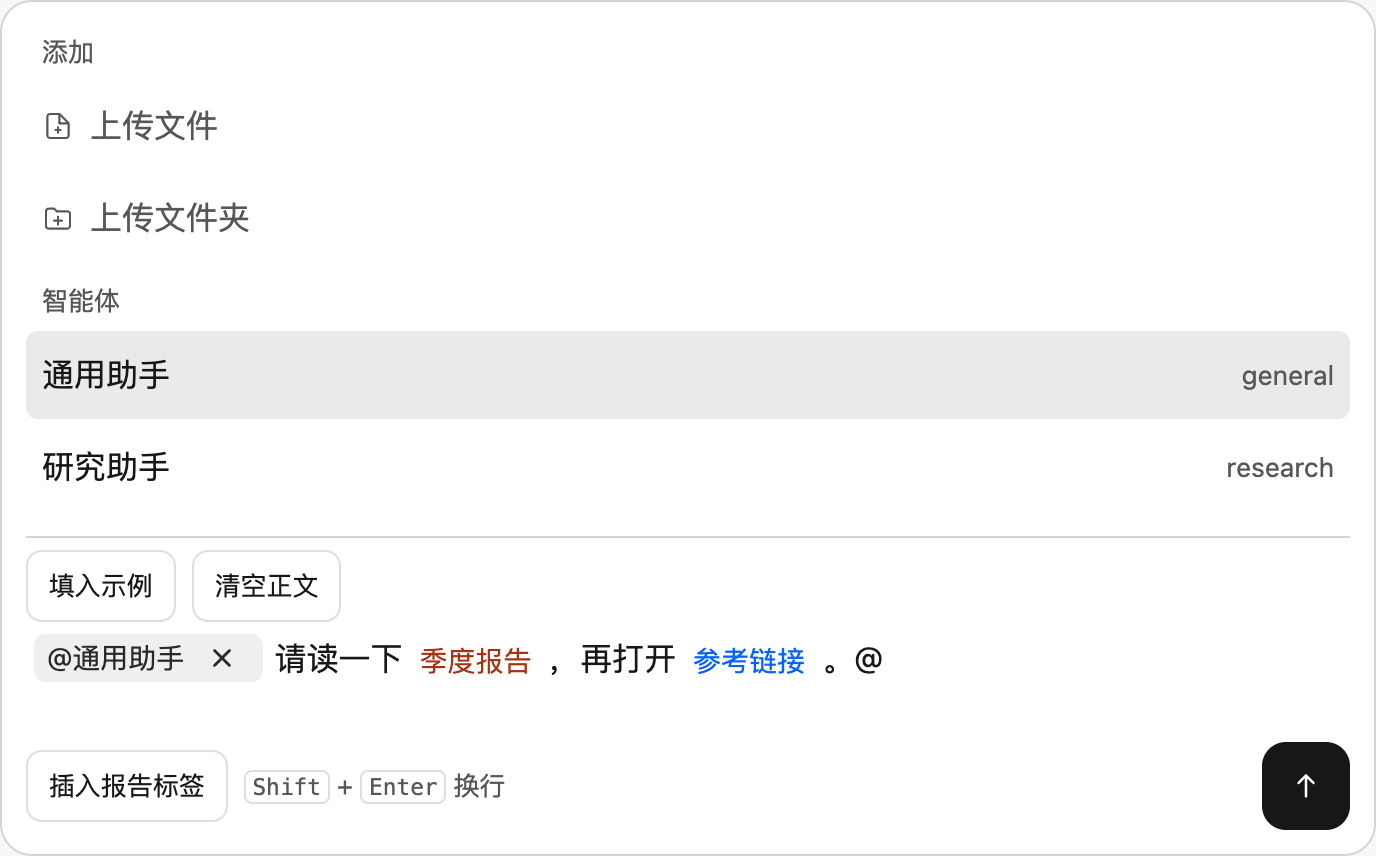
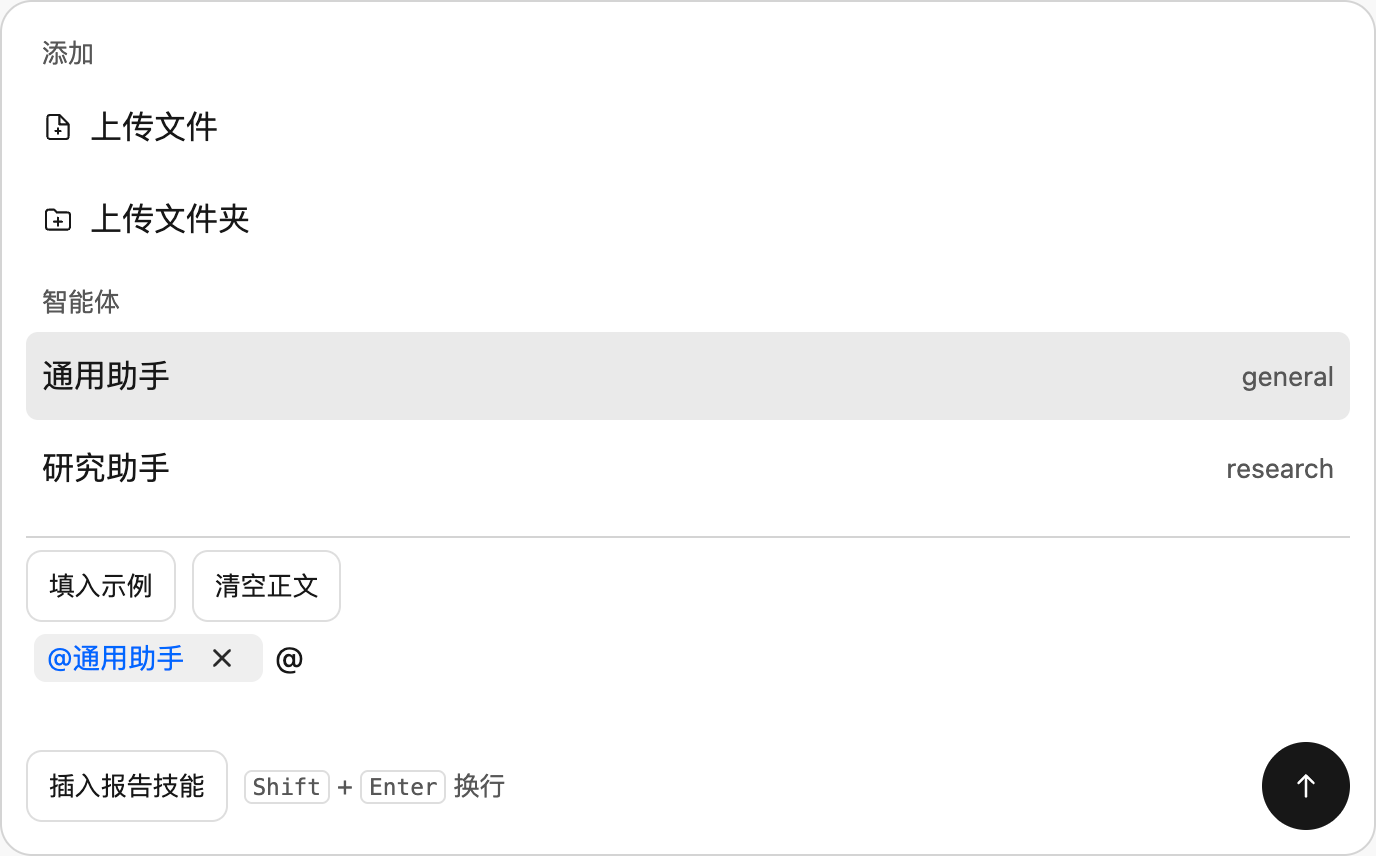
release 0.3.0

diff --git a/README.md b/README.md
@@ -1,16 +1,14 @@
 # Vue Agent Input
 
-面向智能体和聊天产品的 Vue 3 输入框。支持 `@` 智能体选择、`/` 正文标签、自定义候选面板，以及发送和停止事件。正文可以混排文本与可点击标签，使用 `v-model` 保存和回填草稿。
+面向智能体和聊天应用的 Vue 3 输入框。正文支持混排文本、固定标签、可编辑标签和下拉标签，并可通过 `v-model` 保存和回填。通过插槽自定义 `@` 和 `/` 候选，通过事件接入发送与停止操作。
 
-![demo](https://github.com/OriginRing/agent-input/blob/master/demo/assets/input.png)
+![Vue Agent Input 输入框演示](https://raw.githubusercontent.com/OriginRing/agent-input/master/demo/assets/input.png)
 
-![demo](https://github.com/OriginRing/agent-input/blob/master/demo/assets/input2.png)
+![Vue Agent Input 正文标签演示](https://raw.githubusercontent.com/OriginRing/agent-input/master/demo/assets/input2.png)
 
 ## 安装
 
-需要 Vue 3.5 或更新的 Vue 3 版本。包以 ESM 发布，附带 TypeScript 声明和编译好的 CSS。
-
-浏览器最低支持 Chrome 90。
+在 Vue 3.5 或更新版本的 Vue 3 项目中安装。包提供 ESM、TypeScript 声明和独立 CSS，Chrome 最低支持版本为 90。
 
 ```sh
 npm install vue-agent-input
@@ -40,7 +38,7 @@ function handleSend({ text }: AgentInputSendPayload) {
 </template>
 ```
 
-在正文中按 Enter 发送，按 Shift+Enter 换行。空草稿也会触发 `send`，此时 `text` 为 `''`，`content` 为 `[]`。草稿由调用方清空，智能体通过 `v-model:agent` 独立管理。
+在正文中按 Enter 发送，按 Shift+Enter 换行。空草稿也会触发 `send`，此时 `text` 为 `''`，`content` 为 `[]`。清空草稿后，通过 `v-model:agent` 绑定的智能体仍可继续使用。
 
 ## 自定义 `@` 和 `/` 候选
 
@@ -57,9 +55,21 @@ const draft = ref<AgentInputContent>([])
 const composer = ref<AgentInputExpose | null>(null)
 const agent = ref<AgentInputItem | null>(null)
 const agents: AgentInputItem[] = [{ label: '研究助手', value: 'research' }]
-const tags: AgentInputTag[] = [{ label: '季度报告', value: 'report.pdf' }]
+const tags: AgentInputTag[] = [
+  { type: 'tag', label: '季度报告', value: 'report.pdf' },
+  { type: 'input', label: '输出语言', value: '中文' },
+  {
+    type: 'select',
+    label: '文章主题',
+    value: 'campus',
+    options: [
+      { label: 'Campus', value: 'campus' },
+      { label: 'Travel', value: 'travel' },
+    ],
+  },
+]
 
-function filterCandidates(items: AgentInputItem[], query: string) {
+function filterCandidates<T extends AgentInputItem>(items: T[], query: string) {
   const keyword = query.toLowerCase()
   return items.filter(item =>
     item.label.toLowerCase().includes(keyword) || item.value.toLowerCase().includes(keyword),
@@ -101,37 +111,39 @@ function handleTagClick(item: AgentInputTag) {
 
 | `type` | 显示与交互 |
 | --- | --- |
-| `tag`（默认） | 显示 `label`，值在插入时确定。 |
-| `input` | 显示 `value`，为空时显示 `label` 作为占位文字。点击后编辑单行内容，按 Enter 或移开焦点保存，按 Escape 取消。 |
-| `select` | 显示与 `value` 匹配的选项 `label`，无匹配时显示标签的 `label`。点击展开下拉，也可使用方向键和 Enter 选择。 |
+| `tag`（默认） | 显示 `label`，插入后值固定。 |
+| `input` | 显示 `value`，为空时显示 `label` 作为占位文字。编辑框随内容伸缩。按 Enter 或移开焦点保存，按 Escape 取消。 |
+| `select` | 显示与 `value` 匹配的选项 `label`。点击展开下拉，也可使用方向键和 Enter 选择。 |
 
-```ts
-composer.value?.insertTag({ type: 'tag', label: '季度报告', value: 'report.pdf' })
-composer.value?.insertTag({ type: 'input', label: '输出语言', value: '中文' })
-composer.value?.insertTag({
-  type: 'select',
-  label: '文章主题',
-  value: 'campus',
-  options: [
-    { label: 'Campus', value: 'campus' },
-    { label: 'Travel', value: 'travel' },
-  ],
-})
-```
+`select` 的 `options` 由 `{ label, value }` 组成，每个选项的 `value` 应唯一。可通过 `value` 预选，或用空字符串展示标签的 `label` 作为占位文字。选择后，`v-model` 更新标签的 `value`，同时保留 `options`。
 
-`select` 的 `options` 包含 `{ label, value }`，每个选项的 `value` 应唯一。选择后，`v-model` 更新标签的 `value`，保留 `options`。此前使用 `editable: true` 的代码可改用 `type: 'input'`，旧草稿回填时会自动转换。
-
-`send` 的参数为 `{ text, content, agent }`。`text` 是可提交的纯文本，`content` 保留标签对象和顺序，`agent` 是当前智能体或 `null`。序列化时，标签展开为 `value`，和相邻内容之间缺少空白时会补一个空格。下面的草稿会生成 `请看 report.pdf 谢谢`。
+`send` 的参数为 `{ text, content, agent }`。`text` 将标签展开为 `value`，并在相邻内容缺少空白时补一个空格。空值仍保留在结构化的 `content` 中。`agent` 是当前智能体或 `null`。下面的草稿可以通过 `v-model` 回填，发送时会生成 `请参考 report.pdf 用 中文 写一篇关于 campus 的文章`。
 
 ```ts
 import type { AgentInputContent } from 'vue-agent-input'
 
 const draft: AgentInputContent = [
-  '请看',
-  { label: '季度报告', value: 'report.pdf' },
-  '谢谢',
+  '请参考',
+  { type: 'tag', label: '季度报告', value: 'report.pdf' },
+  '用',
+  { type: 'input', label: '输出语言', value: '中文' },
+  '写一篇关于',
+  {
+    type: 'select',
+    label: '文章主题',
+    value: 'campus',
+    options: [
+      { label: 'Campus', value: 'campus' },
+      { label: 'Travel', value: 'travel' },
+    ],
+  },
+  '的文章',
 ]
 ```
+
+### 升级到 0.3.0
+
+将创建标签时的 `editable: true` 改为 `type: 'input'`。已保存的旧草稿回填时会自动转换。省略 `type` 的普通标签继续按 `tag` 处理。
 
 ## API
 
@@ -182,7 +194,7 @@ const draft: AgentInputContent = [
 
 ## 主题与样式
 
-使用 `theme="dark"` 切换到深色主题。普通标签默认文字色为 `#06f`，背景透明，在悬停或键盘聚焦时显示背景。可在组件根元素上覆盖 CSS 变量，也可通过单个标签的 `color` 设置文字颜色。
+使用 `theme="dark"` 切换到深色主题。普通标签和首行智能体名称默认使用 `#06f`。可在组件根元素上覆盖 CSS 变量，也可通过单个正文标签的 `color` 设置文字颜色。
 
 ```vue
 <AgentInput
@@ -191,7 +203,12 @@ const draft: AgentInputContent = [
 />
 ```
 
-常用变量还有 `--agent-input-surface`、`--agent-input-text`、`--agent-input-border` 和 `--agent-input-focus`。
+| CSS 变量 | 用途 |
+| --- | --- |
+| `--agent-input-surface`、`--agent-input-text`、`--agent-input-border`、`--agent-input-focus` | 输入框背景、正文、边框与焦点颜色。 |
+| `--agent-input-agent-color` | 智能体标签的 `@` 与名称颜色。 |
+| `--agent-input-tag-color`、`--agent-input-tag-background` | 普通标签文字和悬停背景，也用于输入标签的编辑态背景。 |
+| `--agent-input-select-color`、`--agent-input-select-background`、`--agent-input-select-highlight` | 下拉标签文字、背景与选项高亮。 |
 
 ## 本地开发
 
